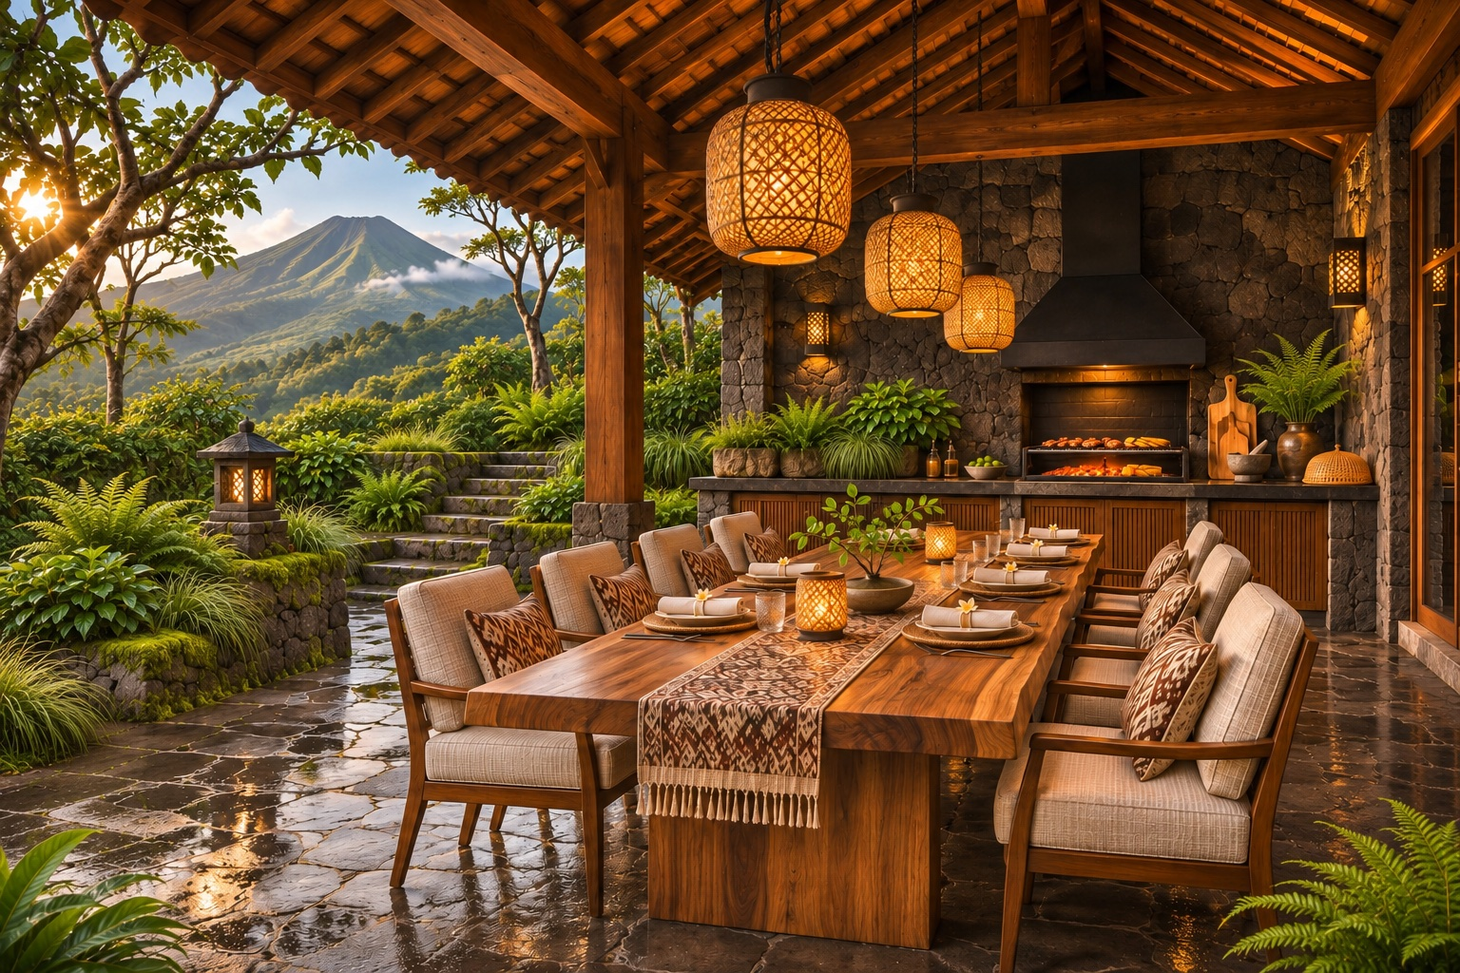
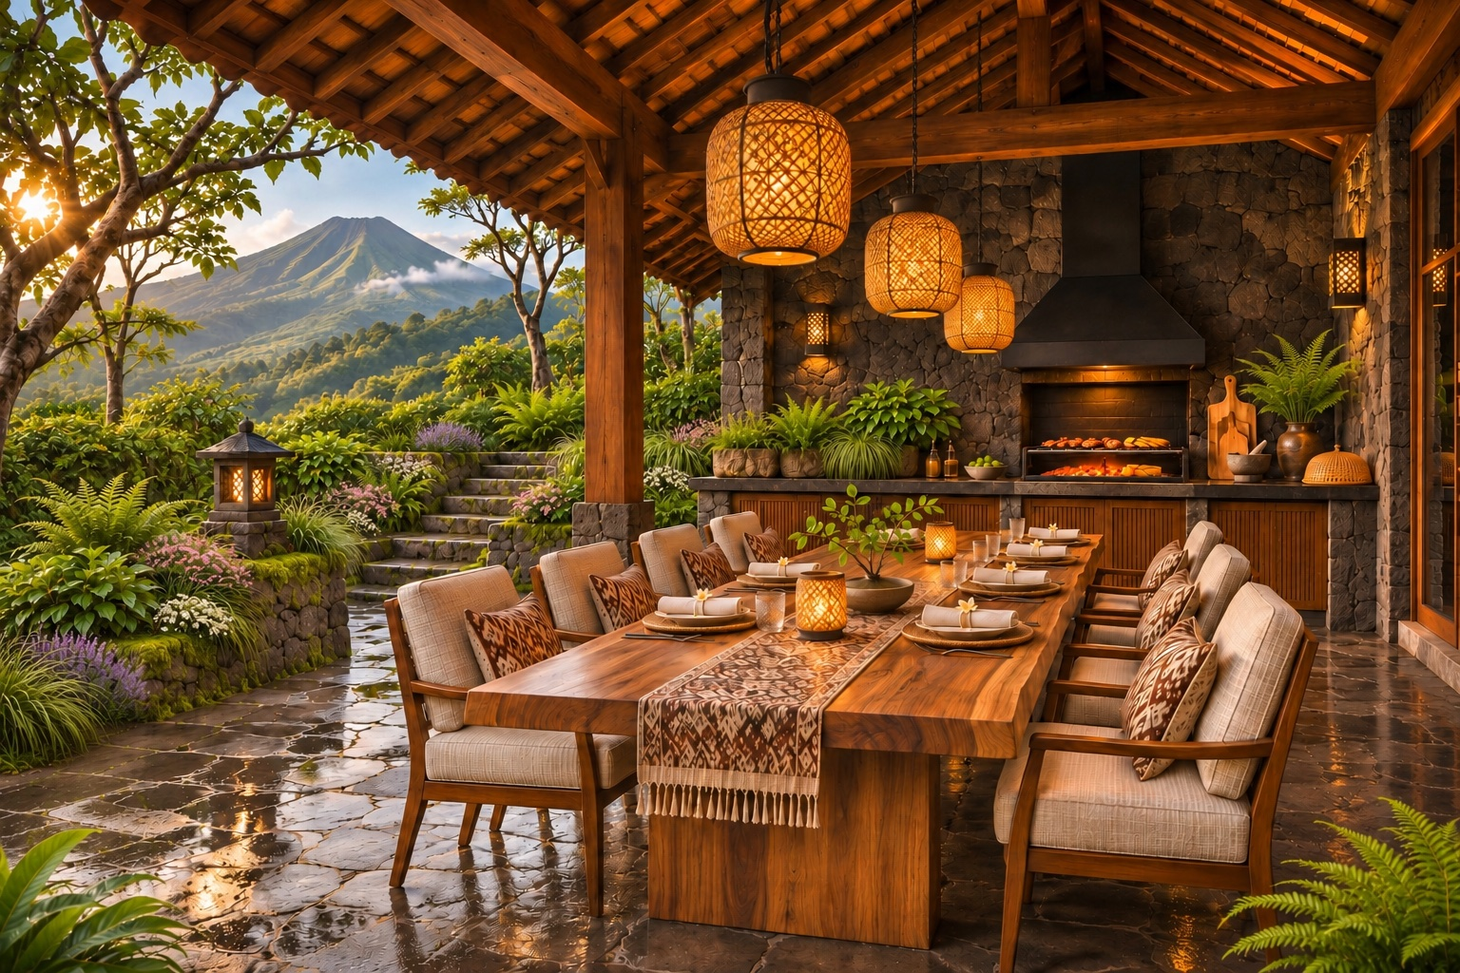
Refine spacious arrival, pool circulation and balanced garden color

diff --git a/clubhouse.html b/clubhouse.html
@@ -1,8 +1,8 @@
 <!doctype html><html lang="en"><head><meta charset="utf-8"><meta name="viewport" content="width=device-width,initial-scale=1"><title>The Clubhouse | Mount Paradise, Trawas</title><meta name="description" content="Explore Mount Paradise: a vision for private stone and timber mountain lodges, lush gardens and thoughtful living in Trawas, East Java."><meta name="theme-color" content="#20362d"><meta property="og:title" content="The Clubhouse | Mount Paradise"><meta property="og:description" content="A private mountain sanctuary in Trawas. Explore the architecture, gardens and vision."><meta property="og:type" content="website"><meta property="og:image" content="https://langit-three.vercel.app/assets/signature-lodge.jpg"><meta property="og:url" content="https://langit-three.vercel.app/clubhouse.html"><meta name="twitter:card" content="summary_large_image"><link rel="canonical" href="https://langit-three.vercel.app/clubhouse.html"><link rel="icon" href="assets/mark.svg" type="image/svg+xml"><link rel="stylesheet" href="styles.css"><script src="site.js" defer></script></head><body id="top" class=""><a class="skip" href="#main">Skip to content</a><header><a class="brand" href="index.html" aria-label="Mount Paradise home"><svg viewBox="0 0 80 34" aria-hidden="true"><path d="M3 31 29 4 43 21 53 10 77 31M17 25 29 16 37 21"/></svg><span>MOUNT PARADISE<small>T R A W A S</small></span></a><button class="menu-toggle" aria-expanded="false" aria-controls="navigation">Menu <span>☰</span></button><nav id="navigation" aria-label="Main navigation"><a href="index.html" >Home</a><a href="vision.html" >The vision</a><a href="clubhouse.html" aria-current="page">The Clubhouse</a><a href="lodges.html" >Private lodges</a><a href="living.html" >Mountain living</a><a href="land.html" >The land</a></nav></header><main id="main"><section class="hero subhero"><img class="hero-image" src="assets/clubhouse-green.jpg" alt="Stone and timber Clubhouse and full-size pool in a tropical mountain garden" fetchpriority="high"><div class="hero-shade"></div><div class="hero-content"><p class="eyebrow">The Clubhouse / Mount Paradise</p><h1>The heart of<br><em>the mountain.</em></h1><p class="hero-description">A favorite table. A mountain terrace. An occasion worth remembering.</p><a class="text-link" href="#discover">Discover more <span aria-hidden="true">↗</span></a></div><div class="hero-bottom"><span>Trawas · East Java · Indonesia</span><span>A mountain sanctuary</span></div></section><section class="section intro" id="discover"><p class="eyebrow">The Clubhouse &amp; its gardens</p><div class="split"><h2>One beautiful place.<br>Many ways to belong.</h2><div class="prose"><p>The Clubhouse is envisioned as the social heart of Mount Paradise: restaurant, bar, café and lounges opening onto the pool and mountain terraces. A separate Spa Pavilion and Recreation Pavilion extend the experience through the gardens.</p></div></div><div class="club-index"><a href="#dining">Restaurant &amp; bar ↓</a><a href="#cafe">The café ↓</a><a href="#events">Private events ↓</a><a href="#recreation">Recreation ↓</a><a href="#spa">Spa &amp; baths ↓</a></div></section>
  <section class="section dark" id="dining"><div class="section-heading"><div><p class="eyebrow">The restaurant / Bar / Mountain patio</p><h2>A table with<br>a different outlook.</h2></div></div><figure class=""><a href="assets/clubhouse-restaurant.jpg" data-lightbox aria-label="Enlarge: Stone and teak restaurant with a bar and open patio facing the mountains"><img src="assets/clubhouse-restaurant.jpg" alt="Stone and teak restaurant with a bar and open patio facing the mountains" loading="lazy" width="1536" height="1024"></a><figcaption>The Clubhouse restaurant & mountain patio<span>View artwork ↗</span></figcaption></figure><div class="split image-copy"><div><h3>Inside, warmly gathered.</h3><p>The dining wing carries the stone pillars, exposed teak and sheltered roofline of the Clubhouse into an intimate restaurant. A polished bar offers a place to meet before dinner or settle into the evening.</p></div><div><h3>Outside, the whole mountain.</h3><p>On the mountain-facing side, the restaurant opens onto a generous patio. Long lunches, sunset drinks and candlelit dinners share an uninterrupted sense of the landscape.</p></div></div></section>
- <section class="section feature" id="cafe"><figure class=""><a href="assets/terrace-calm.jpg" data-lightbox aria-label="Enlarge: Relaxed cafe seating beneath teak eaves with coffee and mountain views"><img src="assets/terrace-calm.jpg" alt="Relaxed cafe seating beneath teak eaves with coffee and mountain views" loading="lazy" width="1536" height="1024"></a><figcaption>The café terrace<span>View artwork ↗</span></figcaption></figure><div class="feature-copy"><p class="eyebrow">Coffee / Conversation / A slower morning</p><h2>Take your<br>usual seat.</h2><p>A relaxed café corner with comfortable chairs, small tables and the quiet pleasure of a good view. Come for coffee and something fresh from the kitchen; stay for a book, a conversation or a second cup.</p><p>Green ferns, natural stone and warm timber keep the setting calm. The mountains provide the color.</p></div></section>
- <section class="section dark" id="events"><div class="section-heading"><div><p class="eyebrow">Weddings / Celebrations / Private gatherings</p><h2>Some evenings<br>deserve this setting.</h2></div></div><figure class=""><a href="assets/clubhouse-arrival.jpg" data-lightbox aria-label="Enlarge: Valet welcoming elegantly dressed guests beside a silver sports car at the Clubhouse entrance"><img src="assets/clubhouse-arrival.jpg" alt="Valet welcoming elegantly dressed guests beside a silver sports car at the Clubhouse entrance" loading="lazy" width="1536" height="1024"></a><figcaption>The Clubhouse arrival & valet drive<span>View artwork ↗</span></figcaption></figure><div class="split image-copy"><div><h3>An arrival of its own.</h3><p>A dedicated valet approach curves toward the sheltered Clubhouse entrance. Guests step from the car into a warm welcome, with an arrival sequence kept separate from the pool terraces and garden paths.</p></div><div><h3>A gathering to remember.</h3><p>The restaurant, lounges and mountain patio are envisioned for wedding receptions, elegant private dinners, milestone celebrations and high-end events. Spaces flow from welcome drinks to dinner and an evening beneath the eaves.</p></div></div></section>
- <section class="section" id="swim-play"><div class="section-heading"><div><p class="eyebrow">The pool garden</p><h2>A little movement.<br>A long exhale.</h2></div></div><figure class=""><a href="assets/clubhouse-green.jpg" data-lightbox aria-label="Enlarge: Clubhouse and swimming pool framed by restrained green planting"><img src="assets/clubhouse-green.jpg" alt="Clubhouse and swimming pool framed by restrained green planting" loading="lazy" width="1536" height="1024"></a><figcaption>The Clubhouse & pool terrace<span>View artwork ↗</span></figcaption></figure><p class="image-story">A full-size pool sits at the center of the shared gardens. Swim before breakfast, rest on the terrace, or follow the garden path toward the Recreation Pavilion.</p></section>
- <section class="section dark" id="recreation"><div class="section-heading"><div><p class="eyebrow">The Recreation Pavilion</p><h2>Room to move.<br>Space to play.</h2></div></div><figure class=""><a href="assets/recreation-pavilion.jpg" data-lightbox aria-label="Enlarge: Separate stone and timber gym pavilion with an adjacent tennis court beyond the pool garden"><img src="assets/recreation-pavilion.jpg" alt="Separate stone and timber gym pavilion with an adjacent tennis court beyond the pool garden" loading="lazy" width="1536" height="1024"></a><figcaption>The Recreation Pavilion / Gym & tennis<span>View artwork ↗</span></figcaption></figure><div class="split image-copy"><div><h3>A gym facing the gardens.</h3><p>A low, separate pavilion beyond the pool accommodates strength and cardio training, with wide glazing bringing the landscape into the workout. Its stone and timber architecture belongs to the same family as the Clubhouse.</p></div><div><h3>A court among the trees.</h3><p>The tennis court sits alongside the gym, connected by sheltered paths and green planting. Keeping active recreation together gives it room to breathe while preserving the atmosphere of the restaurant and lounges.</p></div></div></section>
+ <section class="section feature" id="cafe"><figure class=""><a href="assets/terrace-calm.jpg" data-lightbox aria-label="Enlarge: Relaxed cafe seating beneath teak eaves with coffee and mountain views"><img src="assets/terrace-calm.jpg" alt="Relaxed cafe seating beneath teak eaves with coffee and mountain views" loading="lazy" width="1536" height="1024"></a><figcaption>The café terrace<span>View artwork ↗</span></figcaption></figure><div class="feature-copy"><p class="eyebrow">Coffee / Conversation / A slower morning</p><h2>Take your<br>usual seat.</h2><p>A relaxed café corner with comfortable chairs, small tables and the quiet pleasure of a good view. Come for coffee and something fresh from the kitchen; stay for a book, a conversation or a second cup.</p><p>Green ferns, natural stone and warm timber keep the setting calm, with small pockets of flowers bringing soft color to the terrace.</p></div></section>
+ <section class="section dark" id="events"><div class="section-heading"><div><p class="eyebrow">Weddings / Celebrations / Private gatherings</p><h2>Some evenings<br>deserve this setting.</h2></div></div><figure class=""><a href="assets/clubhouse-arrival.jpg" data-lightbox aria-label="Enlarge: Valet welcoming elegantly dressed guests beside a silver sports car at the Clubhouse entrance"><img src="assets/clubhouse-arrival.jpg" alt="Valet welcoming elegantly dressed guests beside a silver sports car at the Clubhouse entrance" loading="lazy" width="1536" height="1024"></a><figcaption>The Clubhouse arrival & valet drive<span>View artwork ↗</span></figcaption></figure><div class="split image-copy"><div><h3>An arrival of its own.</h3><p>A broad valet forecourt gives cars room to arrive, turn and pause beside the sheltered Clubhouse entrance. Guests step from the car into a warm welcome, with an arrival sequence kept separate from the pool terraces and garden paths.</p></div><div><h3>A gathering to remember.</h3><p>The restaurant, lounges and mountain patio are envisioned for wedding receptions, elegant private dinners, milestone celebrations and high-end events. Spaces flow from welcome drinks to dinner and an evening beneath the eaves.</p></div></div></section>
+ <section class="section" id="swim-play"><div class="section-heading"><div><p class="eyebrow">The pool garden</p><h2>A little movement.<br>A long exhale.</h2></div></div><figure class=""><a href="assets/clubhouse-green.jpg" data-lightbox aria-label="Enlarge: Clubhouse and swimming pool framed by restrained green planting"><img src="assets/clubhouse-green.jpg" alt="Clubhouse and swimming pool framed by restrained green planting" loading="lazy" width="1536" height="1024"></a><figcaption>The Clubhouse & pool terrace<span>View artwork ↗</span></figcaption></figure><p class="image-story">A full-size pool sits at the center of the shared gardens, framed by a generous tiled terrace. Swim before breakfast, rest on the terrace, or follow the garden path toward the Recreation Pavilion.</p></section>
+ <section class="section dark" id="recreation"><div class="section-heading"><div><p class="eyebrow">The Recreation Pavilion</p><h2>Room to move.<br>Space to play.</h2></div></div><figure class=""><a href="assets/recreation-pavilion.jpg" data-lightbox aria-label="Enlarge: Stone and timber gym pavilion with a broad tiled pool terrace and a tennis court set farther into the gardens"><img src="assets/recreation-pavilion.jpg" alt="Stone and timber gym pavilion with a broad tiled pool terrace and a tennis court set farther into the gardens" loading="lazy" width="1536" height="1024"></a><figcaption>The Recreation Pavilion / Gym & tennis<span>View artwork ↗</span></figcaption></figure><div class="split image-copy"><div><h3>A gym facing the gardens.</h3><p>A low, separate pavilion beyond the pool accommodates strength and cardio training, with wide glazing bringing the landscape into the workout. Its stone and timber architecture belongs to the same family as the Clubhouse.</p></div><div><h3>A court among the trees.</h3><p>The tennis court occupies its own spacious garden setting beyond the gym, with room around the playing surface and a dedicated approach. Keeping active recreation together gives it room to breathe while preserving the atmosphere of the restaurant and lounges.</p></div></div></section>
  <section class="section feature" id="spa"><figure class=""><a href="assets/clubhouse-spa.jpg" data-lightbox aria-label="Enlarge: Stone bathing pools in a separate teak-roofed spa pavilion facing the mountain forest"><img src="assets/clubhouse-spa.jpg" alt="Stone bathing pools in a separate teak-roofed spa pavilion facing the mountain forest" loading="lazy" width="1536" height="1024"></a><figcaption>The Spa Pavilion / Baths & restoration<span>View artwork ↗</span></figcaption></figure><div class="feature-copy"><p class="eyebrow">The Spa Pavilion / A quieter garden</p><h2>A world<br>of its own.</h2><p>Tucked into a quieter part of the gardens, the Spa Pavilion has its own roofline, bathing pools and treatment spaces. A short landscaped walk connects it to the Clubhouse.</p><p>Warm stone, open forest views and the sound of water create a setting apart from the energy of dining, events and sport.</p></div></section>
  <section class="section plan-preview" id="membership"><p class="eyebrow">The Mount Paradise Club</p><div class="split"><h2>Your private home.<br>A shared mountain life.</h2><div><p>The Clubhouse, Spa Pavilion and Recreation Pavilion form a connected family of places, linked by the pool garden and stone paths. Club Membership is planned to provide access to the full-size swimming pool, tennis court, gym and spa/baths, close to the privacy of your own cabin or lodge.</p><a class="text-link" href="lodges.html">Find your mountain home <span aria-hidden="true">↗</span></a></div></div></section></main><footer><div class="footer-top"><p class="eyebrow">Mount Paradise · Trawas</p><h2>A little closer<br>to paradise.</h2><a class="text-link" href="vision.html">Discover the vision ↗</a></div><div class="footer-bottom"><span>© 2026 Mount Paradise</span><span>A mountain community in the making.</span><a href="#top">Back to top ↑</a></div></footer><dialog class="lightbox"><button aria-label="Close artwork" class="close-lightbox">Close ×</button><img alt=""><p></p></dialog></body></html>

diff --git a/scripts/clubhouse.py b/scripts/clubhouse.py
@@ -11,10 +11,10 @@ pages['clubhouse.html']=('The Clubhouse',
  hero('clubhouse','The Clubhouse / Mount Paradise','The heart of<br><em>the mountain.</em>','A favorite table. A mountain terrace. An occasion worth remembering.')
  +f'''<section class="section intro" id="discover"><p class="eyebrow">The Clubhouse &amp; its gardens</p><div class="split"><h2>One beautiful place.<br>Many ways to belong.</h2><div class="prose"><p>The Clubhouse is envisioned as the social heart of Mount Paradise: restaurant, bar, café and lounges opening onto the pool and mountain terraces. A separate Spa Pavilion and Recreation Pavilion extend the experience through the gardens.</p></div></div><div class="club-index"><a href="#dining">Restaurant &amp; bar ↓</a><a href="#cafe">The café ↓</a><a href="#events">Private events ↓</a><a href="#recreation">Recreation ↓</a><a href="#spa">Spa &amp; baths ↓</a></div></section>
  <section class="section dark" id="dining"><div class="section-heading"><div><p class="eyebrow">The restaurant / Bar / Mountain patio</p><h2>A table with<br>a different outlook.</h2></div></div>{pic('clubhouse-restaurant','Stone and teak restaurant with a bar and open patio facing the mountains','The Clubhouse restaurant & mountain patio')}<div class="split image-copy"><div><h3>Inside, warmly gathered.</h3><p>The dining wing carries the stone pillars, exposed teak and sheltered roofline of the Clubhouse into an intimate restaurant. A polished bar offers a place to meet before dinner or settle into the evening.</p></div><div><h3>Outside, the whole mountain.</h3><p>On the mountain-facing side, the restaurant opens onto a generous patio. Long lunches, sunset drinks and candlelit dinners share an uninterrupted sense of the landscape.</p></div></div></section>
- <section class="section feature" id="cafe">{pic('terrace-calm','Relaxed cafe seating beneath teak eaves with coffee and mountain views','The café terrace')}<div class="feature-copy"><p class="eyebrow">Coffee / Conversation / A slower morning</p><h2>Take your<br>usual seat.</h2><p>A relaxed café corner with comfortable chairs, small tables and the quiet pleasure of a good view. Come for coffee and something fresh from the kitchen; stay for a book, a conversation or a second cup.</p><p>Green ferns, natural stone and warm timber keep the setting calm. The mountains provide the color.</p></div></section>
- <section class="section dark" id="events"><div class="section-heading"><div><p class="eyebrow">Weddings / Celebrations / Private gatherings</p><h2>Some evenings<br>deserve this setting.</h2></div></div>{pic('clubhouse-arrival','Valet welcoming elegantly dressed guests beside a silver sports car at the Clubhouse entrance','The Clubhouse arrival & valet drive')}<div class="split image-copy"><div><h3>An arrival of its own.</h3><p>A dedicated valet approach curves toward the sheltered Clubhouse entrance. Guests step from the car into a warm welcome, with an arrival sequence kept separate from the pool terraces and garden paths.</p></div><div><h3>A gathering to remember.</h3><p>The restaurant, lounges and mountain patio are envisioned for wedding receptions, elegant private dinners, milestone celebrations and high-end events. Spaces flow from welcome drinks to dinner and an evening beneath the eaves.</p></div></div></section>
- <section class="section" id="swim-play"><div class="section-heading"><div><p class="eyebrow">The pool garden</p><h2>A little movement.<br>A long exhale.</h2></div></div>{pic('clubhouse','Clubhouse and swimming pool framed by restrained green planting','The Clubhouse & pool terrace')}<p class="image-story">A full-size pool sits at the center of the shared gardens. Swim before breakfast, rest on the terrace, or follow the garden path toward the Recreation Pavilion.</p></section>
- <section class="section dark" id="recreation"><div class="section-heading"><div><p class="eyebrow">The Recreation Pavilion</p><h2>Room to move.<br>Space to play.</h2></div></div>{pic('recreation-pavilion','Separate stone and timber gym pavilion with an adjacent tennis court beyond the pool garden','The Recreation Pavilion / Gym & tennis')}<div class="split image-copy"><div><h3>A gym facing the gardens.</h3><p>A low, separate pavilion beyond the pool accommodates strength and cardio training, with wide glazing bringing the landscape into the workout. Its stone and timber architecture belongs to the same family as the Clubhouse.</p></div><div><h3>A court among the trees.</h3><p>The tennis court sits alongside the gym, connected by sheltered paths and green planting. Keeping active recreation together gives it room to breathe while preserving the atmosphere of the restaurant and lounges.</p></div></div></section>
+ <section class="section feature" id="cafe">{pic('terrace-calm','Relaxed cafe seating beneath teak eaves with coffee and mountain views','The café terrace')}<div class="feature-copy"><p class="eyebrow">Coffee / Conversation / A slower morning</p><h2>Take your<br>usual seat.</h2><p>A relaxed café corner with comfortable chairs, small tables and the quiet pleasure of a good view. Come for coffee and something fresh from the kitchen; stay for a book, a conversation or a second cup.</p><p>Green ferns, natural stone and warm timber keep the setting calm, with small pockets of flowers bringing soft color to the terrace.</p></div></section>
+ <section class="section dark" id="events"><div class="section-heading"><div><p class="eyebrow">Weddings / Celebrations / Private gatherings</p><h2>Some evenings<br>deserve this setting.</h2></div></div>{pic('clubhouse-arrival','Valet welcoming elegantly dressed guests beside a silver sports car at the Clubhouse entrance','The Clubhouse arrival & valet drive')}<div class="split image-copy"><div><h3>An arrival of its own.</h3><p>A broad valet forecourt gives cars room to arrive, turn and pause beside the sheltered Clubhouse entrance. Guests step from the car into a warm welcome, with an arrival sequence kept separate from the pool terraces and garden paths.</p></div><div><h3>A gathering to remember.</h3><p>The restaurant, lounges and mountain patio are envisioned for wedding receptions, elegant private dinners, milestone celebrations and high-end events. Spaces flow from welcome drinks to dinner and an evening beneath the eaves.</p></div></div></section>
+ <section class="section" id="swim-play"><div class="section-heading"><div><p class="eyebrow">The pool garden</p><h2>A little movement.<br>A long exhale.</h2></div></div>{pic('clubhouse','Clubhouse and swimming pool framed by restrained green planting','The Clubhouse & pool terrace')}<p class="image-story">A full-size pool sits at the center of the shared gardens, framed by a generous tiled terrace. Swim before breakfast, rest on the terrace, or follow the garden path toward the Recreation Pavilion.</p></section>
+ <section class="section dark" id="recreation"><div class="section-heading"><div><p class="eyebrow">The Recreation Pavilion</p><h2>Room to move.<br>Space to play.</h2></div></div>{pic('recreation-pavilion','Stone and timber gym pavilion with a broad tiled pool terrace and a tennis court set farther into the gardens','The Recreation Pavilion / Gym & tennis')}<div class="split image-copy"><div><h3>A gym facing the gardens.</h3><p>A low, separate pavilion beyond the pool accommodates strength and cardio training, with wide glazing bringing the landscape into the workout. Its stone and timber architecture belongs to the same family as the Clubhouse.</p></div><div><h3>A court among the trees.</h3><p>The tennis court occupies its own spacious garden setting beyond the gym, with room around the playing surface and a dedicated approach. Keeping active recreation together gives it room to breathe while preserving the atmosphere of the restaurant and lounges.</p></div></div></section>
  <section class="section feature" id="spa">{pic('clubhouse-spa','Stone bathing pools in a separate teak-roofed spa pavilion facing the mountain forest','The Spa Pavilion / Baths & restoration')}<div class="feature-copy"><p class="eyebrow">The Spa Pavilion / A quieter garden</p><h2>A world<br>of its own.</h2><p>Tucked into a quieter part of the gardens, the Spa Pavilion has its own roofline, bathing pools and treatment spaces. A short landscaped walk connects it to the Clubhouse.</p><p>Warm stone, open forest views and the sound of water create a setting apart from the energy of dining, events and sport.</p></div></section>
  <section class="section plan-preview" id="membership"><p class="eyebrow">The Mount Paradise Club</p><div class="split"><h2>Your private home.<br>A shared mountain life.</h2><div><p>The Clubhouse, Spa Pavilion and Recreation Pavilion form a connected family of places, linked by the pool garden and stone paths. Club Membership is planned to provide access to the full-size swimming pool, tennis court, gym and spa/baths, close to the privacy of your own cabin or lodge.</p>{link('lodges.html','Find your mountain home')}</div></div></section>''')
 # Put the Clubhouse on the homepage as a visual destination.

diff --git a/CINEMATIC-REVISION.md b/CINEMATIC-REVISION.md
@@ -20,3 +20,9 @@ Removed the public footer development disclaimer, hero caution label and repeate
 ## Existing pilot reference photographs
 
 The supplied pilot photographs guide future artwork without replacing the established cinematic presentation: irregular grey stone masonry and paving, substantial warm timber and deep eaves, black-framed glazing, dark metal lanterns, tree ferns, pine-like woodland, clipped green hedges and restrained floral accents. Interiors combine timber with clean contemporary finishes; bathrooms use pale veined surfaces, dark fixtures and glass shower partitions. Preserve the private woodland atmosphere in both Phase 2 and Phase 3.
+
+## Arrival, circulation and balanced planting refinement
+
+Widen the valet forecourt, show cars moving toward the entrance and specify Indonesian right-hand-drive vehicles. Give the pool continuous generous tile decking with paths joining dry circulation. Set tennis farther from the gym with generous run-off and landscape separation. Restore small realistic purple, pink and white flower accents among predominantly green planting across arrival, recreation, Clubhouse, cafe and BBQ imagery.
+
+Additional supplied arrival references: long tree-lined paved approach opening into a generous motor court; layered tree canopies, sculptural trunks, clipped hedges, burgundy foliage and occasional small flowers. Use this arrival sequence and botanical variety in future visuals.
